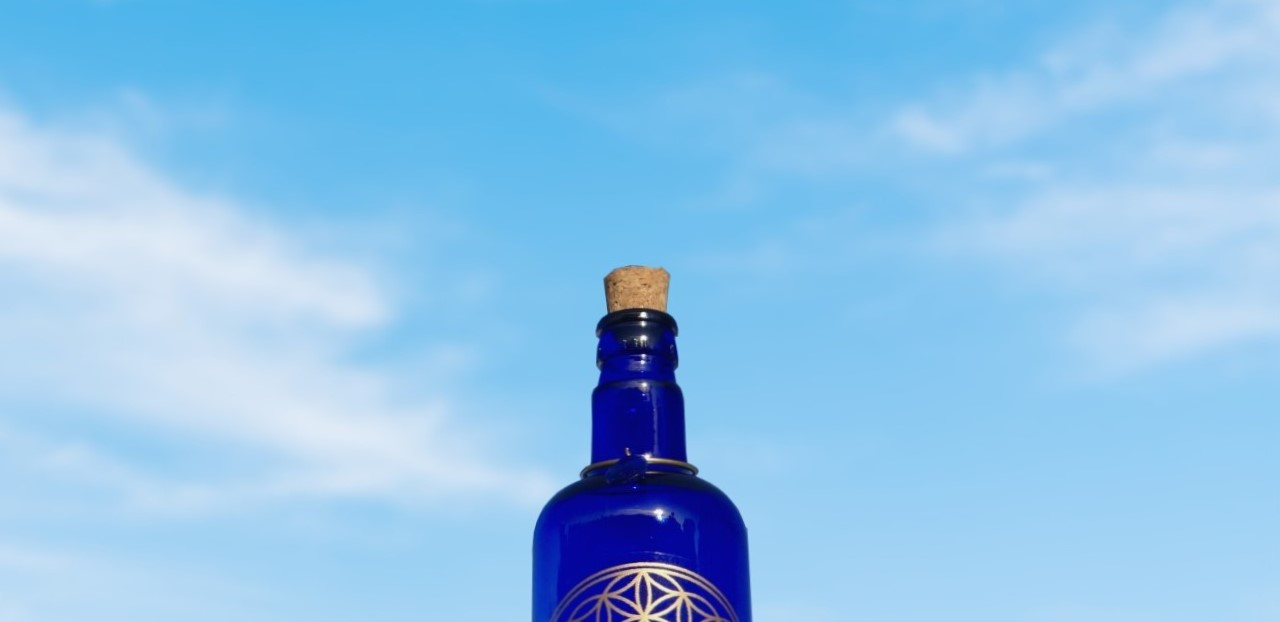
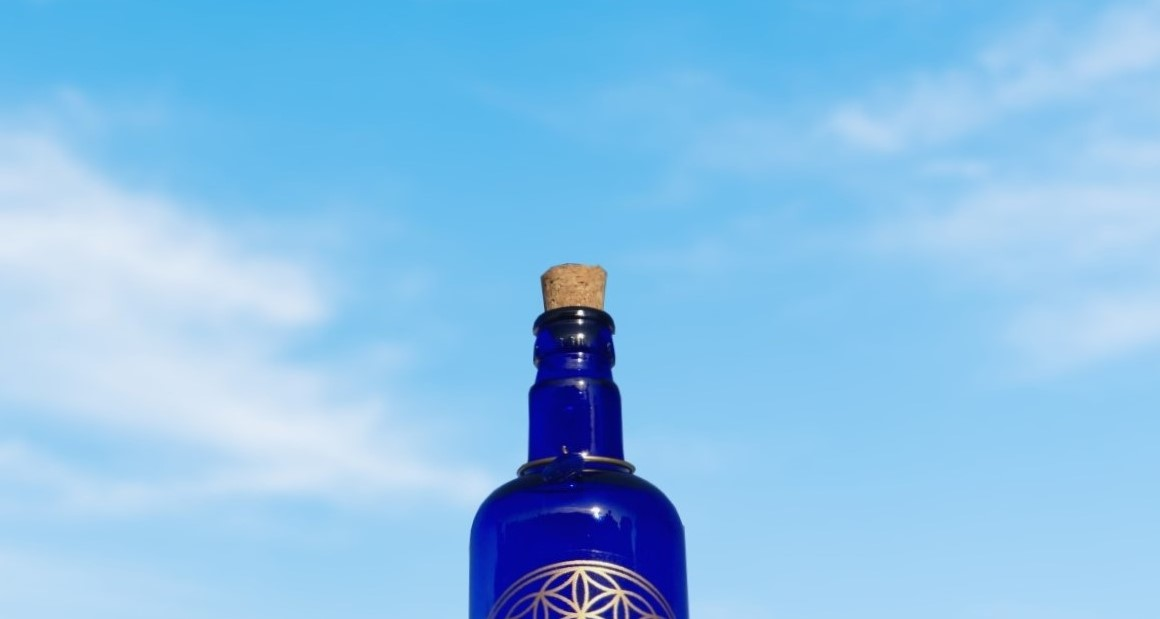
Borrando foto innecesaria

diff --git a/index.html b/index.html
@@ -54,7 +54,7 @@
         <div class="carousel-inner">
             
             <div class="carousel-item active">
-                <img src="img/bg-index_pc-copia.jpg" class="d-block w-100" alt="botella azul para solarizar">
+                <img src="img/bg-index_pc.jpg" class="d-block w-100" alt="botella azul para solarizar">
             </div>
             <div id="index">
                 <h1 id="index"><span style="font-size:14rem;">S</span>UN<span style="font-size:14rem;">W</span>ATER</h1>
